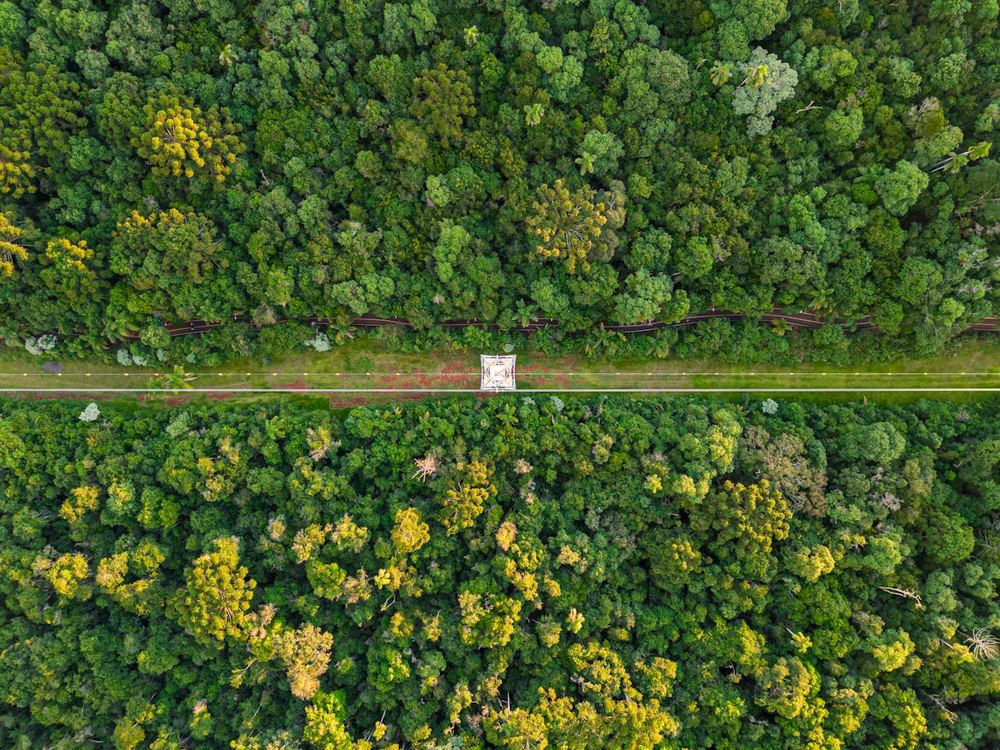
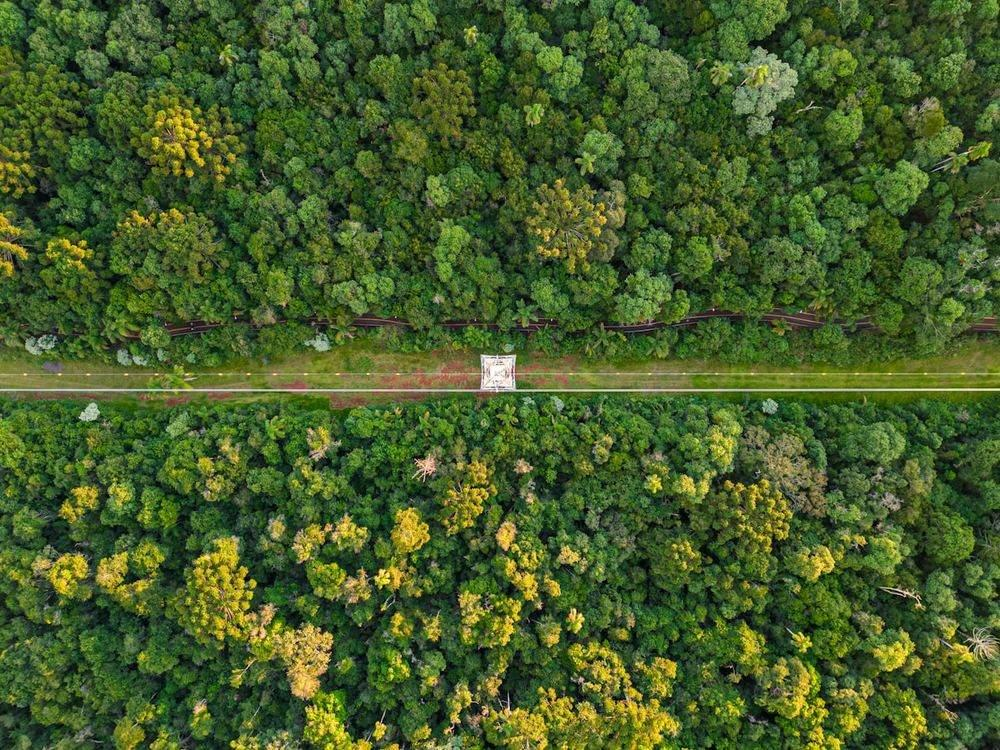
Optimization: powerline image recompressed (236→216KB, same quality) - Created by BAHB

diff --git a/.claude/ralph-loop.local.md b/.claude/ralph-loop.local.md
@@ -1,6 +1,6 @@
 ---
 active: true
-iteration: 1
+iteration: 2
 session_id: 
 max_iterations: 0
 completion_promise: null
